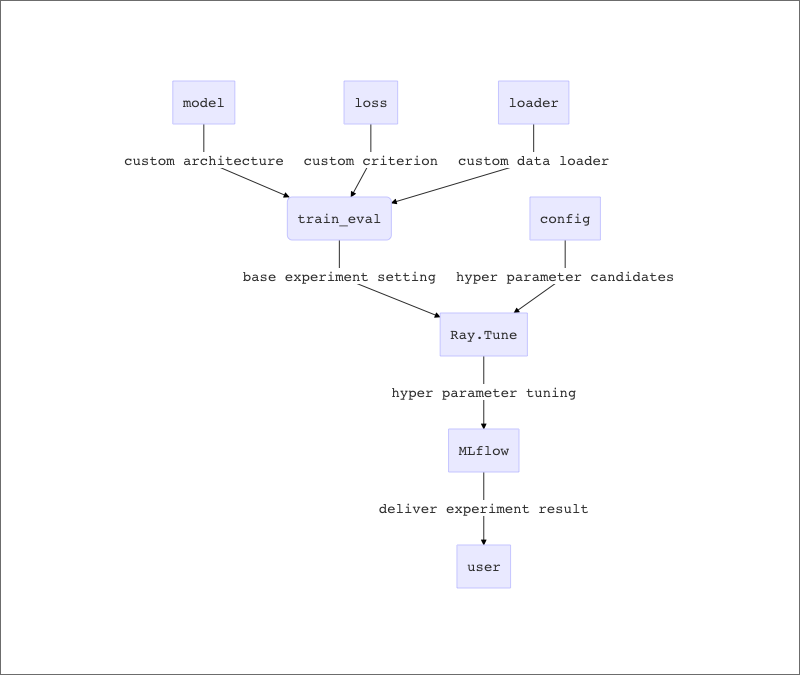
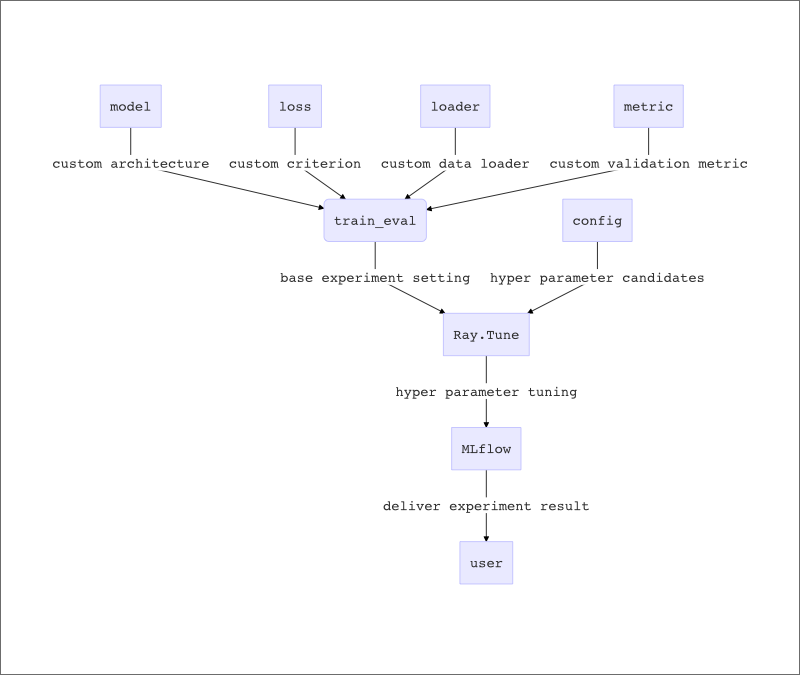
custom validation abstraction module added

diff --git a/autorch/train_eval.py b/autorch/train_eval.py
@@ -14,23 +14,24 @@ import ray
 from ray import tune    #for tuning hyper-parameters
 from ray.tune.schedulers import AsyncHyperBandScheduler
 
-#set custom model & data_loader classes
-from model import cifar10_classification_model
-from loader import cifar10_image_loader
-
-#set the model
-model = cifar10_classification_model.Cifar10_classifier()
-
-#set the loss function(if you implement your own, import that custom loss class)
-criterion = nn.CrossEntropyLoss()
-
 #set the learning config
 config = configparser.ConfigParser()
 config.read('config.ini')
 config = config['cifar10'] #section config load
 
+###set custom model & data_loader & criterion & metric classes
+from model import cifar10_classification_model
+from loader import cifar10_image_loader
+from metric.Metric import Accuracy, MSE
+
+#set the model
+model = cifar10_classification_model.Cifar10_classifier()
 #set the dataLoader
 dataLoader = cifar10_image_loader.Cifar10ImageLoader(data_dir=config['data_dir'], batch_size=int(config['batch_size']))
+#set the loss function(if you implement your own, import that custom loss class)
+criterion = nn.CrossEntropyLoss()
+customMetric = Accuracy
+##############################################################
 
 def tune_train_eval(loader, model, criterion, config, tuned, reporter):
     for key, value in tuned.items():
@@ -109,6 +110,10 @@ def tune_train_eval(loader, model, criterion, config, tuned, reporter):
         model.eval()
         test_loss = 0
         correct = 0
+
+        predictions = []
+        answers = []
+
         with torch.no_grad():
             for batch_idx, (data, target) in enumerate(loader):
                 if torch.cuda.is_available():
@@ -117,12 +122,15 @@ def tune_train_eval(loader, model, criterion, config, tuned, reporter):
 
                 output = model(data)
                 test_loss += criterion(output, target).sum().item() # sum up batch loss
-                pred = output.data.max(1)[1]                        # get the index of the max log-probability
-                correct += pred.eq(target.data).cpu().sum().item()  # classification task prediction & correction
+
+                #apply custom metric(in this case, Accuracy)
+                predictions += list(output.data.max(1)[1].cpu().numpy())    # get the index of the max log-probability
+                answers += list(target.data.cpu().numpy()) 
 
         test_loss /= len(loader.dataset)
-        test_accuracy = 100.0 * correct / len(loader.dataset)
-        print('\nTest set: Average loss: {:.4f}, Accuracy: {}/{} ({:.0f}%)\n'.format(test_loss, correct, len(loader.dataset), test_accuracy))
+
+        test_accuracy = customMetric.evaluate(predictions, answers)
+        print('\nTest set: Average loss: {:.4f}, Accuracy: ({:.2f}%)\n'.format(test_loss, test_accuracy * 100))
 
         if 'mlflow_tracking_URI' in config.keys():
             mlflow.log_metric('test_loss', test_loss)
